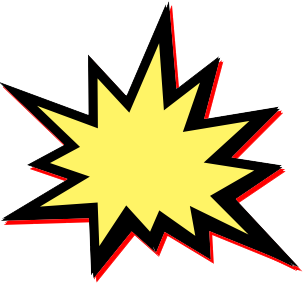
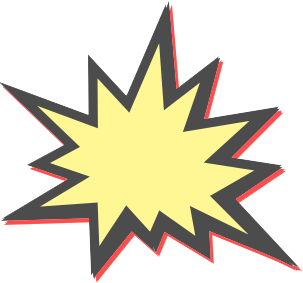
crash change; coin sprite change

diff --git a/js/game.js b/js/game.js
@@ -26,7 +26,7 @@ function execute(){
     );
 
     // switch for sound
-    var soundOn = true;
+    var soundOn = false;
 
     var width = window.innerWidth;
     var height = window.innerHeight * 0.99999;
@@ -678,7 +678,7 @@ function execute(){
                     // }, 5000);
 
                     var $crashFx = $("<div id='explode'></div>");
-                    console.log("crash!");
+                    // console.log("crash!");
 
                     $("body").append($crashFx);
                     $crashFx.css("display","none");

diff --git a/css/index.css b/css/index.css
@@ -672,6 +672,7 @@ table{
   
 /*  background: rgba(0,255,0,0.5);*/
   background: url('/img/race-assets/crash.png') no-repeat;
+  opacity: 0.6;
   background-size: 100%;
   z-index: 100;
 }
